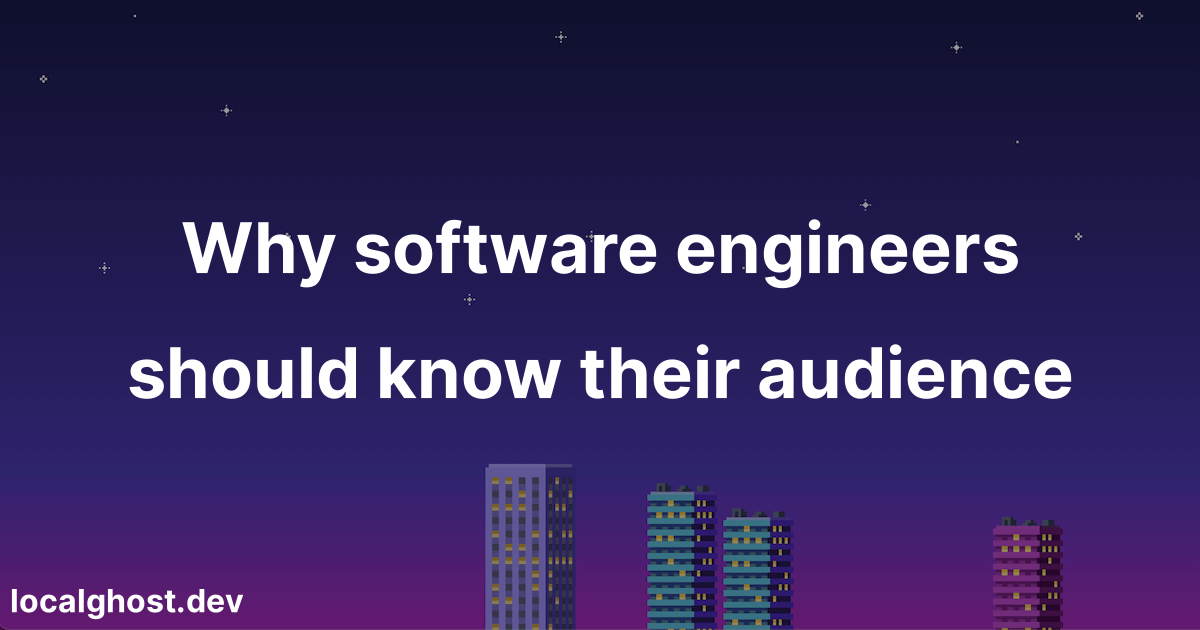
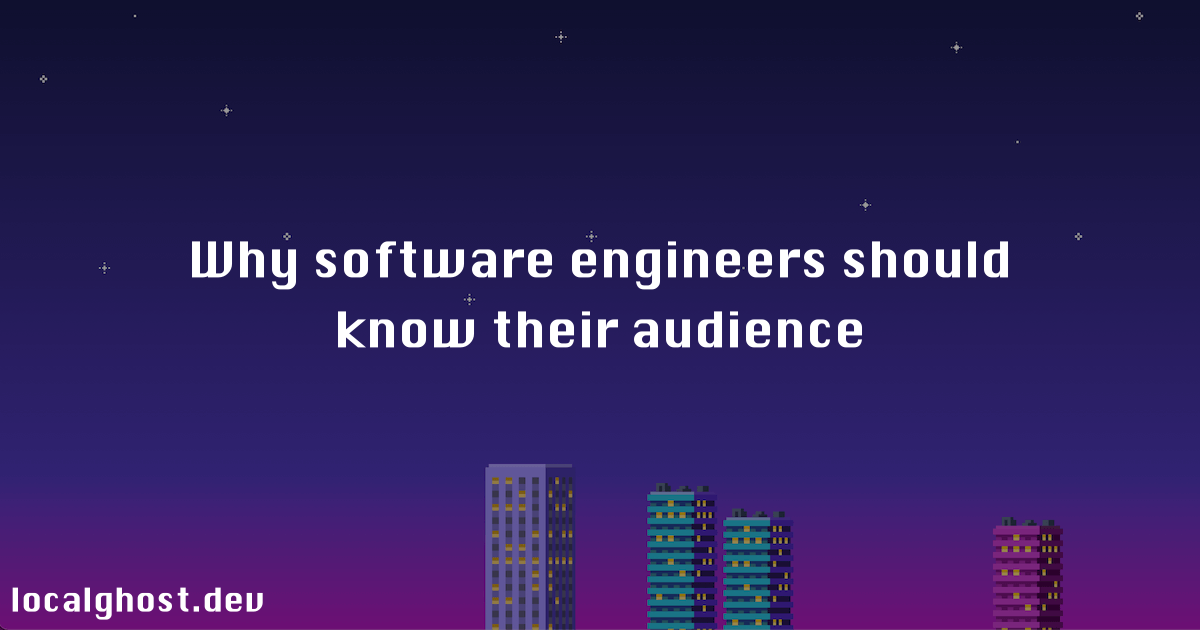
Redo OG images

Changed region(s): [[0.0925, 0.3317, 0.8942, 0.6333], [0.5242, 0.7841, 0.6475, 1.0], [0.0, 0.9349, 0.2158, 0.9952]]

diff --git a/scripts/generate-og.js b/scripts/generate-og.js
@@ -2,6 +2,7 @@ const { createCanvas, Image } = require('canvas');
 const fs = require('fs');
 const path = require('path');
 
+const quotationRegex = /^\'|^\"|\"$|\'$/g;
 function getLines(ctx, text, maxWidth) {
   var words = text.split(' ');
   var lines = [];
@@ -21,13 +22,7 @@ function getLines(ctx, text, maxWidth) {
   return lines;
 }
 
-const title = process.argv[2];
-const subtitle = process.argv[3];
-if (title == null || title === '') {
-  console.log('need title!');
-  process.exit(1);
-}
-function generate() {
+function generate(title, subtitle, filename) {
   const canvas = createCanvas(1200, 630);
   const ctx = canvas.getContext('2d');
   const image = new Image();
@@ -43,21 +38,23 @@ function generate() {
     ctx.strokeStyle = 'black';
     ctx.textAlign = 'center';
     ctx.textBaseline = 'bottom';
-    ctx.font = `bold 60px 'Inter'`;
+    ctx.font = `bold 48px 'Krungthep'`;
     const titleLines = getLines(ctx, title, canvas.width * 0.8);
     const subtitleLines =
       subtitle != null ? getLines(ctx, subtitle, canvas.width * 0.8) : [];
 
+    const offset = subtitleLines.length > 0 ? 70 : 25;
+
     [...titleLines, ...subtitleLines].forEach((line, i) => {
-      ctx.fillText(line, canvas.width / 2, canvas.height / 2 - 25 + i * 90);
+      ctx.fillText(line, canvas.width / 2, canvas.height / 2 - offset + i * 70);
     });
 
     ctx.textBaseline = 'bottom';
-    ctx.font = "bold 32px 'Inter'";
+    ctx.font = "bold 32px 'Krungthep'";
     ctx.textAlign = 'left';
     ctx.fillText('localghost.dev', 10, canvas.height - 10);
-
-    const out = fs.createWriteStream(process.cwd() + '/og-image.png');
+    console.log(filename);
+    const out = fs.createWriteStream(filename);
     const stream = canvas.createPNGStream();
     stream.pipe(out);
     out.on('finish', () => console.log('The PNG file was created.'));
@@ -65,4 +62,65 @@ function generate() {
   image.src = imgSrc;
 }
 
-generate();
+function lookForPosts(overwrite) {
+  const postFolder = path.join(process.cwd(), './content/posts');
+  const dirs = fs.readdirSync(postFolder);
+  const posts = dirs
+    .map((dir) => {
+      const file = path.join(postFolder, dir, 'index.md');
+      try {
+        const content = fs.readFileSync(file, 'utf8');
+        const splitContent = content.split('\n');
+
+        const title = splitContent.find((line) => line.startsWith('title:'));
+        if (title == null) {
+          return null;
+        }
+        if (!overwrite) {
+          const existingImage = fs.existsSync(
+            path.join(
+              process.cwd(),
+              './content/posts',
+              dir,
+              'images',
+              'og-image.png'
+            )
+          );
+          if (existingImage) {
+            return null;
+          }
+        }
+        const subtitle = splitContent.find((line) =>
+          line.startsWith('subtitle:')
+        );
+        const titleContent = title
+          .split('title:')[1]
+          .trim()
+          .replace(quotationRegex, '');
+        const subtitleContent =
+          subtitle != null
+            ? subtitle.split('subtitle:')[1].trim().replace(quotationRegex, '')
+            : null;
+        return {
+          title: titleContent,
+          subtitle: subtitleContent,
+          filename: path.join(postFolder, dir, 'images/og-image.png'),
+        };
+      } catch (err) {
+        console.error(err);
+        return null;
+      }
+    })
+    .filter(Boolean);
+  return posts;
+}
+
+function run() {
+  const posts = lookForPosts(false);
+  posts.forEach((post) => {
+    console.log(post);
+    generate(post.title, post.subtitle, post.filename);
+  });
+}
+
+run();

diff --git a/content/posts/2019-12-31-google-appengine-ci/index.md b/content/posts/2019-12-31-google-appengine-ci/index.md
@@ -1,6 +1,5 @@
 ---
 title: "Deploying your Google AppEngine app with CircleCI"
-subtitle: "Managing environment variables with CircleCI Contexts and a bit of bash magic"
 summary: "How to set up CircleCI to inject environment variables and deploy your Google AppEngine app, as well as managing different deployment environments."
 date: "2019-12-31"
 tags: 
